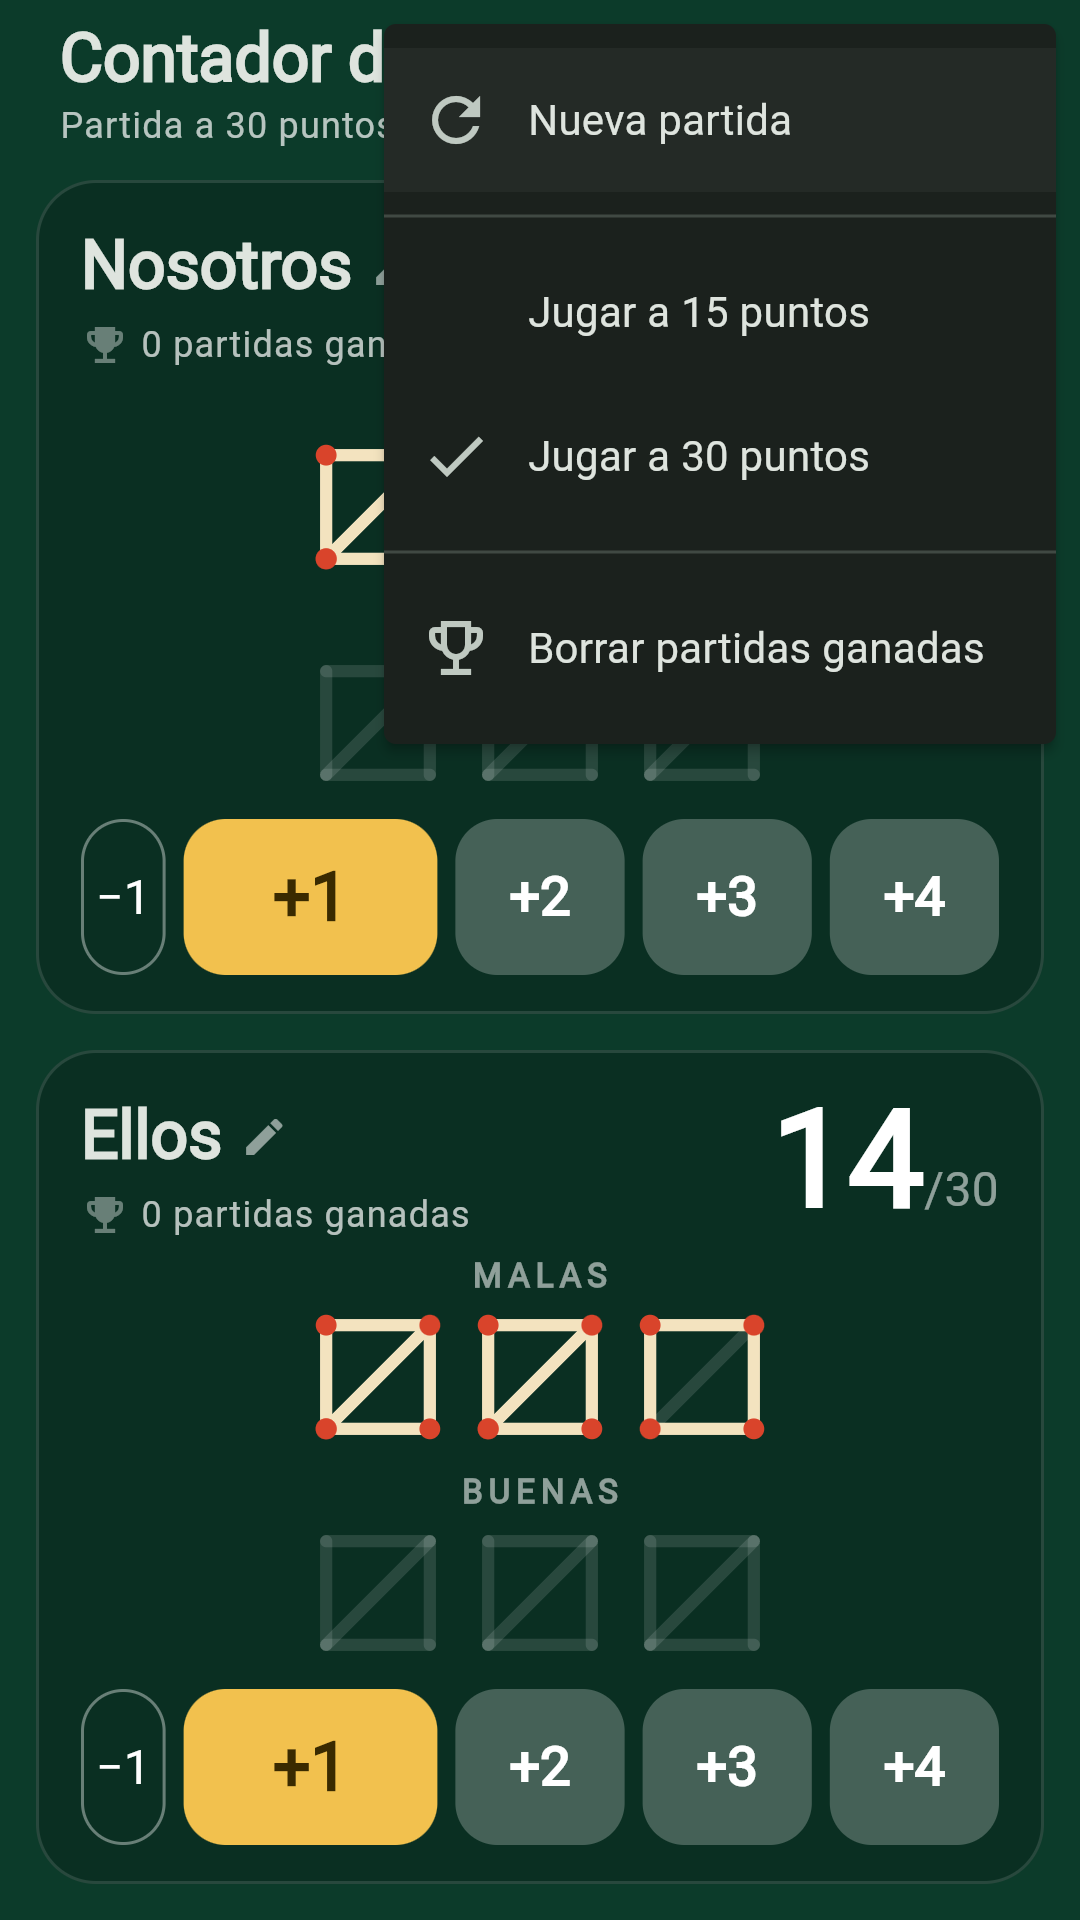
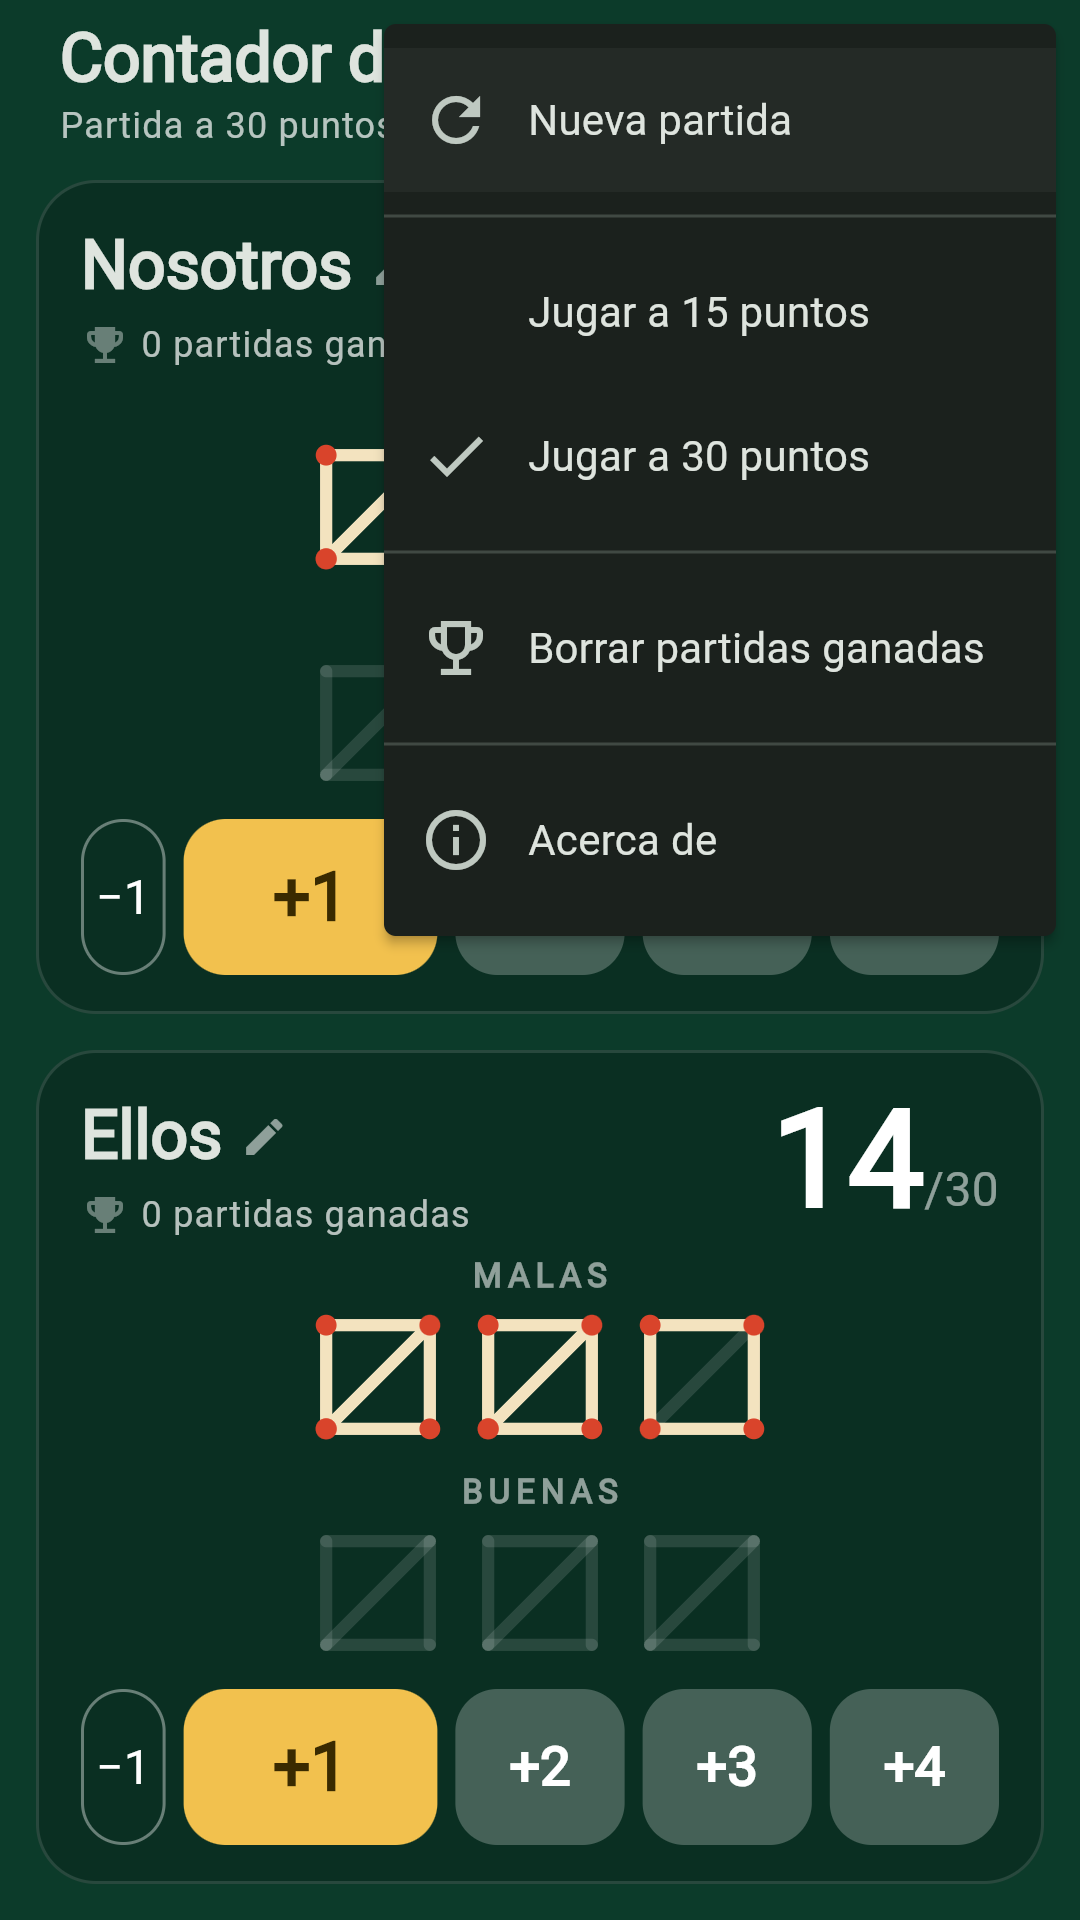
Actualiza capturas de la ficha con el menú "Acerca de"
Captura del menú actualizada y nueva captura del cartel "Acerca de"
(código abierto, sin anuncios ni monetización, libre para siempre).

Claude-Session: https://claude.ai/code/session_01Jbs1vGJP6c6gm96s3vbr4n

Changed region(s): [[0.3361, 0.375, 0.9778, 0.5]]

diff --git a/store/ficha-es.md b/store/ficha-es.md
@@ -44,6 +44,6 @@ Código fuente y contacto: https://github.com/juanmahumeniuk/contador_truco
 | --- | --- |
 | Ícono de la app (512×512) | `assets/icono-512.png` |
 | Gráfico de funciones (1024×500) | `assets/grafico-de-funciones-1024x500.png` |
-| Capturas de teléfono (1080×1920), en este orden | `assets/captura-1-partida.png`, `captura-2-equipos.png`, `captura-3-a-15-puntos.png`, `captura-4-ganador.png`, `captura-5-menu.png` |
+| Capturas de teléfono (1080×1920), en este orden | `assets/captura-1-partida.png`, `captura-2-equipos.png`, `captura-3-a-15-puntos.png`, `captura-4-ganador.png`, `captura-6-acerca-de.png`, `captura-5-menu.png` |
 
 Las capturas son de la app real. Play pide entre 2 y 8 capturas de teléfono.
